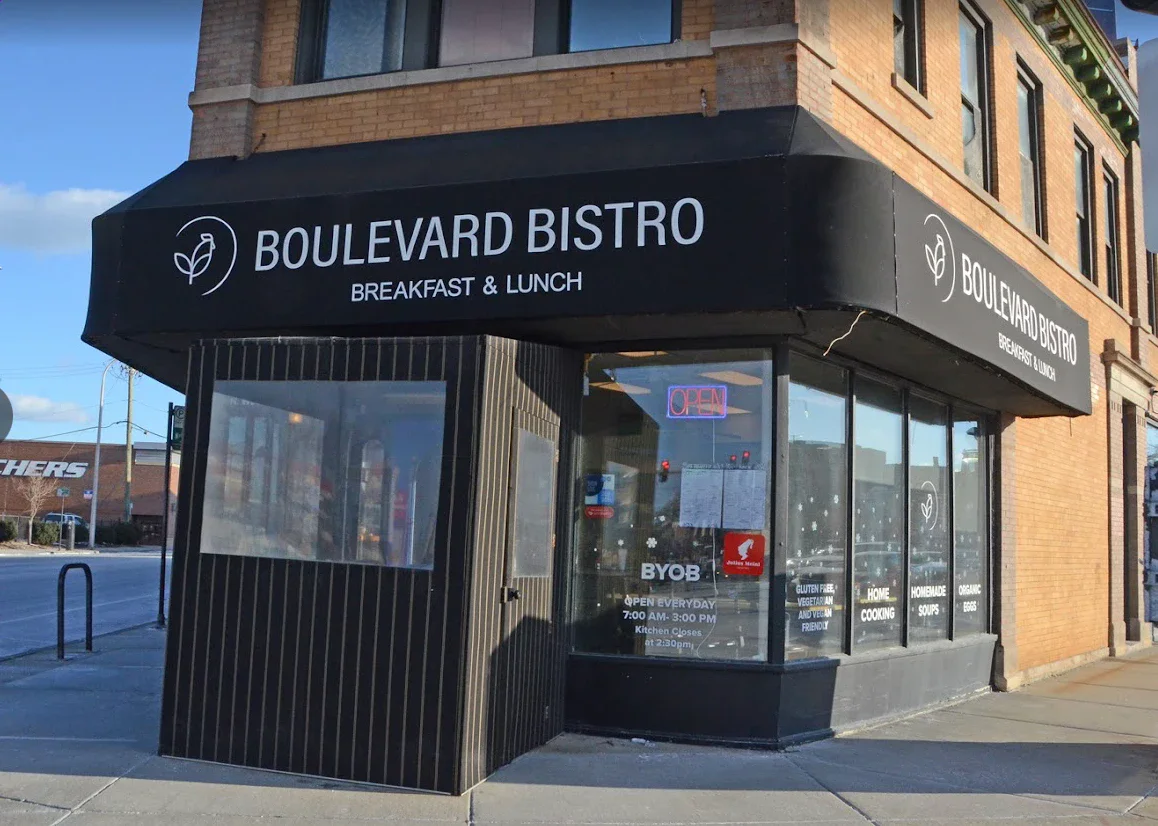
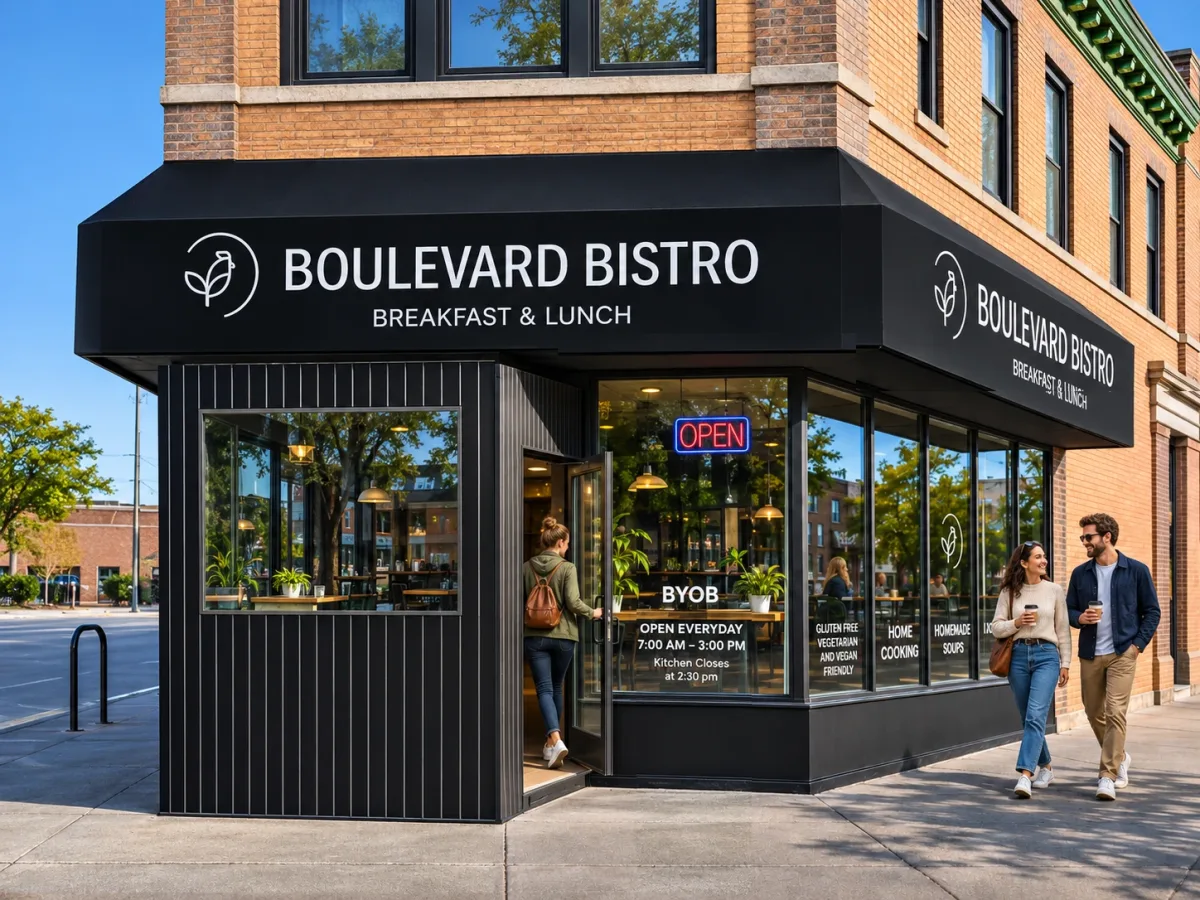
New sunny storefront photo

diff --git a/index.html b/index.html
@@ -1509,7 +1509,7 @@ section[id], [id$="-title"], #all-soups { scroll-margin-top: 96px; }
           <figcaption>On the board today</figcaption>
         </figure>
         <figure class="polaroid p2">
-          <img src="img/story/storefront.webp" alt="The family's breakfast and lunch spot on a Chicago corner" loading="lazy" decoding="async" width="1158" height="826">
+          <img src="img/story/storefront.webp?v=2" alt="The family's breakfast and lunch spot on a Chicago corner" loading="lazy" decoding="async" width="1200" height="900">
           <figcaption>Our corner of Chicago</figcaption>
         </figure>
         <figure class="polaroid p3">
@@ -1537,7 +1537,7 @@ section[id], [id$="-title"], #all-soups { scroll-margin-top: 96px; }
     </div>
     <div class="reel" aria-label="Photos from Boulevard Bistro">
       <p class="reel-cap">From the bistro kitchen</p>
-      <div class="reel-track"><figure class="reel-tile"><img src="img/bistro/noodle.webp" alt="A bowl of chicken noodle soup at the Boulevard Bistro counter" loading="lazy" decoding="async"></figure><figure class="reel-tile"><img src="img/bistro/plate1.webp" alt="Breakfast plate at Boulevard Bistro" loading="lazy" decoding="async"></figure><figure class="reel-tile"><img src="img/story/chalkboard.webp" alt="The soup of the day chalkboard" loading="lazy" decoding="async"></figure><figure class="reel-tile"><img src="img/bistro/soup-menu.webp" alt="Adam's Famous Soups on the Boulevard Bistro menu" loading="lazy" decoding="async"></figure><figure class="reel-tile"><img src="img/bistro/plate2.webp" alt="Omelette and potatoes at Boulevard Bistro" loading="lazy" decoding="async"></figure><figure class="reel-tile"><img src="img/bistro/plate3.webp" alt="A skillet at Boulevard Bistro" loading="lazy" decoding="async"></figure><figure class="reel-tile"><img src="img/story/storefront.webp" alt="The Boulevard Bistro storefront on Western Ave" loading="lazy" decoding="async"></figure><figure class="reel-tile"><img src="img/bistro/breakfast-menu.webp" alt="The Boulevard Bistro breakfast menu" loading="lazy" decoding="async"></figure><figure class="reel-tile"><img src="img/bistro/plate4.webp" alt="French toast at Boulevard Bistro" loading="lazy" decoding="async"></figure><figure class="reel-tile"><img src="img/bistro/plate5.webp" alt="A salad at Boulevard Bistro" loading="lazy" decoding="async"></figure><figure class="reel-tile" aria-hidden="true"><img src="img/bistro/noodle.webp" alt="" loading="lazy" decoding="async"></figure><figure class="reel-tile" aria-hidden="true"><img src="img/bistro/plate1.webp" alt="" loading="lazy" decoding="async"></figure><figure class="reel-tile" aria-hidden="true"><img src="img/story/chalkboard.webp" alt="" loading="lazy" decoding="async"></figure><figure class="reel-tile" aria-hidden="true"><img src="img/bistro/soup-menu.webp" alt="" loading="lazy" decoding="async"></figure><figure class="reel-tile" aria-hidden="true"><img src="img/bistro/plate2.webp" alt="" loading="lazy" decoding="async"></figure><figure class="reel-tile" aria-hidden="true"><img src="img/bistro/plate3.webp" alt="" loading="lazy" decoding="async"></figure><figure class="reel-tile" aria-hidden="true"><img src="img/story/storefront.webp" alt="" loading="lazy" decoding="async"></figure><figure class="reel-tile" aria-hidden="true"><img src="img/bistro/breakfast-menu.webp" alt="" loading="lazy" decoding="async"></figure><figure class="reel-tile" aria-hidden="true"><img src="img/bistro/plate4.webp" alt="" loading="lazy" decoding="async"></figure><figure class="reel-tile" aria-hidden="true"><img src="img/bistro/plate5.webp" alt="" loading="lazy" decoding="async"></figure></div>
+      <div class="reel-track"><figure class="reel-tile"><img src="img/bistro/noodle.webp" alt="A bowl of chicken noodle soup at the Boulevard Bistro counter" loading="lazy" decoding="async"></figure><figure class="reel-tile"><img src="img/bistro/plate1.webp" alt="Breakfast plate at Boulevard Bistro" loading="lazy" decoding="async"></figure><figure class="reel-tile"><img src="img/story/chalkboard.webp" alt="The soup of the day chalkboard" loading="lazy" decoding="async"></figure><figure class="reel-tile"><img src="img/bistro/soup-menu.webp" alt="Adam's Famous Soups on the Boulevard Bistro menu" loading="lazy" decoding="async"></figure><figure class="reel-tile"><img src="img/bistro/plate2.webp" alt="Omelette and potatoes at Boulevard Bistro" loading="lazy" decoding="async"></figure><figure class="reel-tile"><img src="img/bistro/plate3.webp" alt="A skillet at Boulevard Bistro" loading="lazy" decoding="async"></figure><figure class="reel-tile"><img src="img/story/storefront.webp?v=2" alt="The Boulevard Bistro storefront on Western Ave" loading="lazy" decoding="async"></figure><figure class="reel-tile"><img src="img/bistro/breakfast-menu.webp" alt="The Boulevard Bistro breakfast menu" loading="lazy" decoding="async"></figure><figure class="reel-tile"><img src="img/bistro/plate4.webp" alt="French toast at Boulevard Bistro" loading="lazy" decoding="async"></figure><figure class="reel-tile"><img src="img/bistro/plate5.webp" alt="A salad at Boulevard Bistro" loading="lazy" decoding="async"></figure><figure class="reel-tile" aria-hidden="true"><img src="img/bistro/noodle.webp" alt="" loading="lazy" decoding="async"></figure><figure class="reel-tile" aria-hidden="true"><img src="img/bistro/plate1.webp" alt="" loading="lazy" decoding="async"></figure><figure class="reel-tile" aria-hidden="true"><img src="img/story/chalkboard.webp" alt="" loading="lazy" decoding="async"></figure><figure class="reel-tile" aria-hidden="true"><img src="img/bistro/soup-menu.webp" alt="" loading="lazy" decoding="async"></figure><figure class="reel-tile" aria-hidden="true"><img src="img/bistro/plate2.webp" alt="" loading="lazy" decoding="async"></figure><figure class="reel-tile" aria-hidden="true"><img src="img/bistro/plate3.webp" alt="" loading="lazy" decoding="async"></figure><figure class="reel-tile" aria-hidden="true"><img src="img/story/storefront.webp?v=2" alt="" loading="lazy" decoding="async"></figure><figure class="reel-tile" aria-hidden="true"><img src="img/bistro/breakfast-menu.webp" alt="" loading="lazy" decoding="async"></figure><figure class="reel-tile" aria-hidden="true"><img src="img/bistro/plate4.webp" alt="" loading="lazy" decoding="async"></figure><figure class="reel-tile" aria-hidden="true"><img src="img/bistro/plate5.webp" alt="" loading="lazy" decoding="async"></figure></div>
     </div>
   </section>
 
